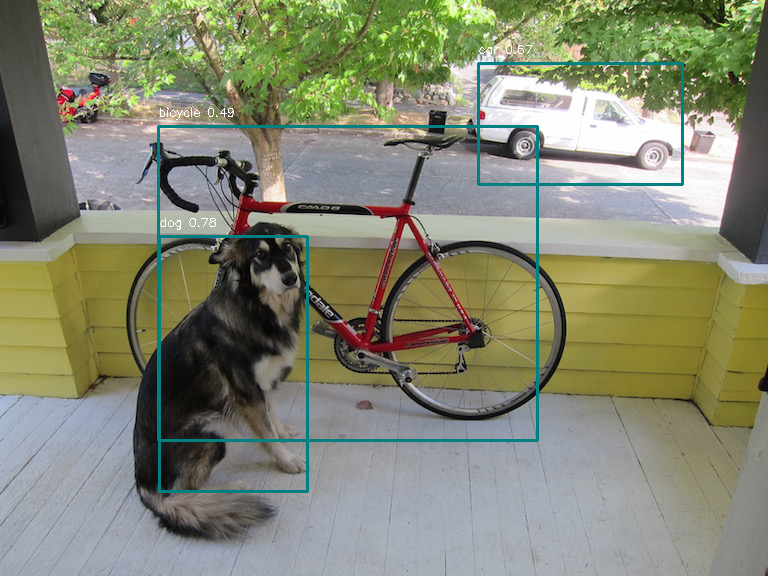
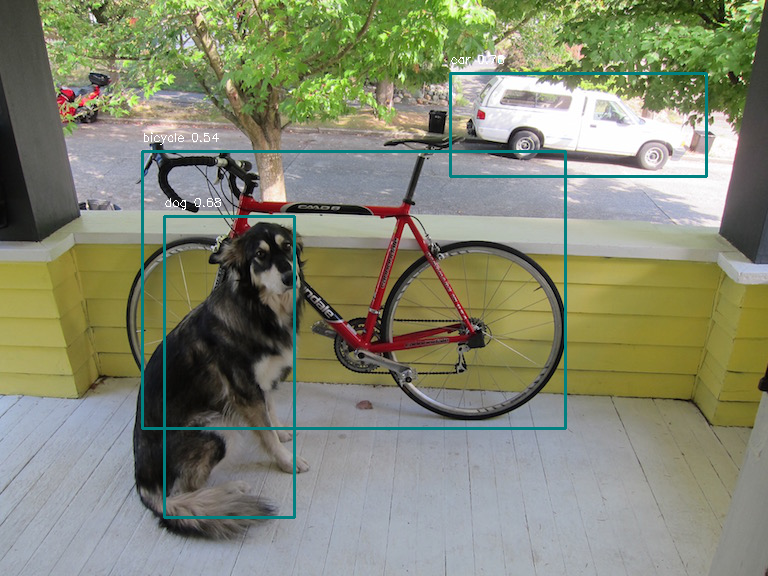
update

Changed region(s): [[0.1562, 0.0625, 0.9375, 0.9062]]

diff --git a/models/yolov1.py b/models/yolov1.py
@@ -5,13 +5,28 @@
 # CSDN: https://blog.csdn.net/qq_38412266?type=blog #
 #####################################################
 
-from torchvision.models.resnet import Bottleneck
 import math
 import torch.nn as nn
-from PIL import Image
-import torchvision.transforms as T
 import torchvision.models.resnet
-import torch
+from torchvision.models.resnet import Bottleneck
+
+class NeckNet(nn.Module):
+    def __init__(self, in_channels,out_channels):
+        super(NeckNet, self).__init__()
+
+        self.conv1 = nn.Conv2d(in_channels,out_channels, 3,stride=1, padding=1)
+        self.bn1 = nn.BatchNorm2d(out_channels)
+        self.relu = nn.ReLU(inplace=True)
+
+    def forward(self, x):
+
+        identity = x
+        out = self.conv1(x)
+        out = self.bn1(out)
+        out += identity
+        out = self.relu(out)
+
+        return out
 
 
 class YOLOv1(torchvision.models.resnet.ResNet):
@@ -22,7 +37,7 @@ class YOLOv1(torchvision.models.resnet.ResNet):
         self.B = num_bboxes
         self.C = num_classes
 
-        self.layer5 = Bottleneck(inplanes=2048,planes=512,stride=1)
+        self.layer5 = NeckNet(2048,2048)
 
         self.end = nn.Sequential(
             nn.Conv2d(2048, self.C + self.B * 5, 3,stride=2, padding=1),

diff --git a/predict.py b/predict.py
@@ -20,8 +20,8 @@ def get_args_parser():
     parser.add_argument('--input_size', default=[448,448],nargs='+',type=int,help='images input size')
     parser.add_argument('--weights', default='./output_dir/last.pth', type=str,help='dataset path')
     parser.add_argument('--nb_classes', default=20, type=int,help='number of the classification types')
-    parser.add_argument('--conf_thresh', default=0.1, type=float,help='thresh of cls conf')
-    parser.add_argument('--prob_thresh', default=0.1, type=float,help='thresh of predict prob')
+    parser.add_argument('--conf_thresh', default=0.2, type=float,help='thresh of cls conf')
+    parser.add_argument('--prob_thresh', default=0.2, type=float,help='thresh of predict prob')
     parser.add_argument('--nms_thresh', default=0.5, type=float,help='nms thresh of predict prob')
 
     parser.add_argument('--grid_size', default=7, type=int,help='grid size of each image')

diff --git a/README.md b/README.md
@@ -3,6 +3,7 @@
 # PyTorch YOLOv1 Project
 </div>
 
+
 ### 环境配置
 python version 3.8, torch 1.8.1, torchvision 0.9.1:
 ```
@@ -27,7 +28,7 @@ datasets/
 ```
 ### 训练
 ```
-python train.py --input_size 448 448 --batch_size 32 --epochs 100 --nb_classes 20 --finetune ./weights/resnet50_ram-a26f946b.pth --data_path ./datasets/ --output_dir ./output_dir 
+python train.py --input_size 448 448 --batch_size 32 --epochs 80 --nb_classes 20 --finetune ./weights/resnet50_ram-a26f946b.pth --data_path ./datasets/ --output_dir ./output_dir 
 ```
 ### 评价模型
 ```
@@ -49,12 +50,15 @@ python -m onnxsim best.onnx best_sim.onnx
 #### 2. 学习率曲线
 ![learning_rate.png](output_dir%2Flearning_rate.png)
 
-### Train on VOC2007 + VOC2012
-| model  | backbone | mAP (VOC2007 test) |
-|:------:|:--------------:|:------------------:|
-| YOLOv1 |    ResNet50    |        0.63        |
 
 ### 结果可视化
+
+#### Train on VOC2007 + VOC2012
+
+| model  | backbone | mAP (VOC2007 test) |
+|:------:|:--------------:|:------------------:|
+| YOLOv1 |    ResNet50    |        0.65        |
+
 ![dog.png](output_dir%2Fdog.png)
 
 ![person.png](output_dir%2Fperson.png)
